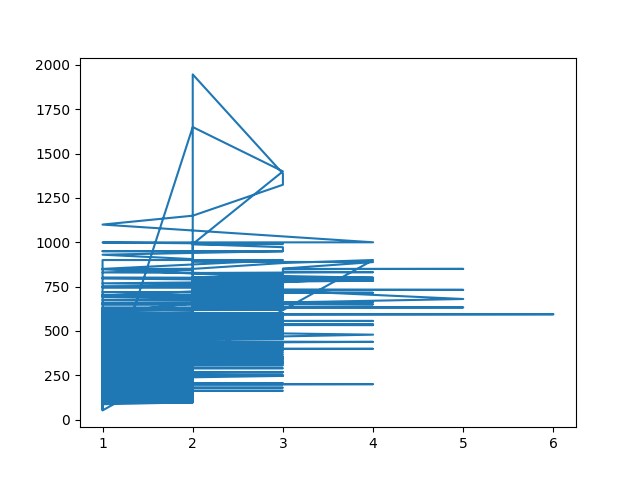
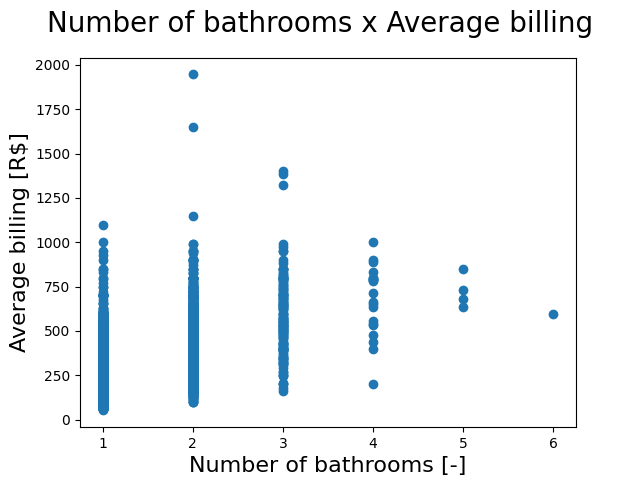
Resolução completa + gráficos de análise
Questões de 1 a 4 resolvidas no arquivo main e gráficos da questão 3

diff --git a/main.py b/main.py
@@ -1,2 +1,78 @@
 import pandas as pd
+import matplotlib.pyplot as plt
+import datetime as dt
+
+from pandas.core.tools.datetimes import to_datetime
+
+details = pd.read_csv('desafio_details.csv')
+prices = pd.read_csv('desafio_priceav.csv')
+
+
+#Ordenando bairros por ordem crescente de id no dataFrame details.
+details = details.sort_values(by=['suburb','airbnb_listing_id'])
+#print(details)
+
+#Faturamento médio por id (anúncio)
+fat_medio_id = prices[prices['occupied']==1].groupby('airbnb_listing_id').price_string.agg('mean')
+#print(fat_medio_id)
+
+#Como a informação dos bairros está em details, vou primeiro adicionar o faturamento médio por id em details, para depois ordenar 
+#os bairros por faturamento médio dos listings.
+details = pd.merge(fat_medio_id, details, on='airbnb_listing_id').sort_values(by=['suburb', 'price_string'])
+#print(details)
+
+#Podemos também ver o faturamento médio por bairro:
+#details = details.groupby('suburb').price_string.agg('mean').sort_values(ascending=False)
+#print(details)
+
+#Análise de correlações - Faturamento x Característica
+#print(details[['star_rating','price_string']].dropna().corr())
+#print(details[['number_of_bedrooms','price_string']].dropna().corr())
+#print(details[['number_of_bathrooms','price_string']].dropna().corr())
+#print(details[['is_superhost','price_string']].dropna().corr())
+#print(details[['number_of_reviews','price_string']].dropna().corr())
+
+#Gráficos comparativos
+#plt.scatter(details['star_rating'],details['price_string'])
+#plt.suptitle('Star rating x Average billing', fontsize=20)
+#plt.xlabel('Star rating [-]', fontsize=16)
+#plt.ylabel('Average billing [R$]', fontsize=16)
+#plt.show()
+#plt.savefig('star_rating_x_faturamento.png')
+
+#plt.scatter(details['number_of_bedrooms'],details['price_string'])
+#plt.suptitle('Number of bedrooms x Average billing', fontsize=20)
+#plt.xlabel('Number of bedrooms [-]', fontsize=16)
+#plt.ylabel('Average billing [R$]', fontsize=16)
+#plt.show()
+#plt.savefig('number_of_bedrooms_x_faturamento.png')
+
+#plt.scatter(details['number_of_bathrooms'],details['price_string'])
+#plt.suptitle('Number of bathrooms x Average billing', fontsize=20)
+#plt.xlabel('Number of bathrooms [-]', fontsize=16)
+#plt.ylabel('Average billing [R$]', fontsize=16)
+#plt.show()
+#plt.savefig('number_of_bathrooms_x_faturamento.png')
+
+#plt.scatter(details['is_superhost'],details['price_string'])
+#plt.suptitle('Is superhost x Average billing', fontsize=20)
+#plt.xlabel('Is superhost [-]', fontsize=16)
+#plt.ylabel('Average billing [R$]', fontsize=16)
+#plt.show()
+#plt.savefig('is_superhost_x_faturamento.png')
+
+#plt.scatter(details['number_of_reviews'],details['price_string'])
+#plt.suptitle('Number of reviews x Average billing', fontsize=20)
+#plt.xlabel('Number of reviews [-]', fontsize=16)
+#plt.ylabel('Average billing [R$]', fontsize=16)
+#plt.show()
+#plt.savefig('number_of_reviews_x_faturamento.png')
+
+#Média de antecedência das reservas
+print((pd.to_datetime(prices[prices['booked_on']!='blank']['date'])-pd.to_datetime(prices[prices['booked_on']!='blank']['booked_on'])).mean())
+
+#Média de antecedência das reservas nos fins de semana
+datas_alugadas = pd.to_datetime(prices[prices['booked_on']!='blank']['date'])
+datas_reservas = pd.to_datetime(prices[prices['booked_on']!='blank']['booked_on'])
+print((datas_alugadas[datas_alugadas.dt.dayofweek>4]-datas_reservas[datas_alugadas.dt.dayofweek>4]).mean())
 
